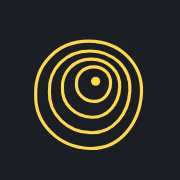
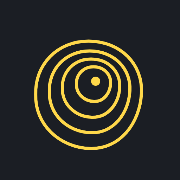
v5.22.6: @napi-rs/canvas 1.0 — og et ikon som forsvant stille (#311)
Dependabot #306: 0.1.100 → 1.0.7. Bumpen selv er triviell — pakka brukes bare av
scripts/gen-icons.mjs, som ikke er del av bygget. Det den avdekket er ikke.

@napi-rs/canvas 1.0 løser ikke `href` på <use>, bare den gamle
`xlink:href`-formen. public/icon.svg brukte <defs> + <use href="#blob"> for de
fire høydekurvene, så ALLE FIRE forsvant fra de genererte PWA-ikonene — igjen
sto bakgrunnen og midtprikken. Scriptet skrev fire glade «Wrote …»-linjer og
returnerte 0. PNG-er er binære i git-diffen, så ingenting så det; det ble bare
oppdaget fordi filene krympet fra 31 til 3 kB, og tallet var for merkelig å la
ligge.

To endringer:

- Path-en er GJENTATT fire ganger framfor <defs> + <use>. Mindre pent, men det
  avhenger ikke av at en renderer støtter <use> i det hele tatt. Begrunnelsen
  står i SVG-en, så den ikke blir «ryddet» tilbake ved første anledning.
  Nettlesere tok begge former, så feilen var usynlig i appen selv.
- gen-icons.mjs teller nå GULE PIKSLER og feiler under 3 % av flaten. Merket er
  fire strøk-tegnede ringer pluss en liten prikk: et riktig ikon ligger på ~8 %,
  en bare-prikken-variant på ~0,2 %. Verifisert i begge retninger — exit 1 når
  kurvene fjernes, exit 0 på riktig ikon.

Ikonene er regenerert og visuelt identiske med før. De er nå RGBA framfor RGB
(1.0 bevarer alfakanalen), men målt helt opake, som før.

Gater: test (2415), build, audit-gaten, npm ci-integritet, og gen-icons selv.

diff --git a/public/sw.js b/public/sw.js
@@ -16,7 +16,7 @@
  *       Everything else → network only (Google Fonts, opentype from CDN, etc.)
  */
 
-const CACHE_VERSION = 'lende-v5.22.5'
+const CACHE_VERSION = 'lende-v5.22.6'
 const SHELL_CACHE   = `${CACHE_VERSION}-shell`
 const ASSET_CACHE   = `${CACHE_VERSION}-assets`
 const BASE = '/lende/'

diff --git a/src/version.js b/src/version.js
@@ -1,4 +1,4 @@
 // Autoritativ app-versjon. Skal matche "version" i package.json +
 // package-lock.json og CACHE_VERSION i public/sw.js — alle fire bumpes
 // i samme commit.
-export const APP_VERSION = '5.22.5'
+export const APP_VERSION = '5.22.6'

diff --git a/CHANGELOG.md b/CHANGELOG.md
@@ -1,3 +1,21 @@
+## 2026-08-23 — v5.22.6: @napi-rs/canvas 1.0 — og et ikon som forsvant stille
+
+Major-bumpen (0.1.100 → 1.0.7) avdekket at 1.0 ikke løser `href` på `<use>`, bare
+den gamle `xlink:href`-formen. Ikonet vårt brukte `<defs>` + `<use href="#blob">`
+for de fire høydekurvene, så alle fire forsvant fra de genererte PWA-ikonene —
+igjen sto bakgrunnen og midtprikken. Scriptet skrev fire glade «Wrote …»-linjer
+og returnerte 0. PNG-er er binære i git-diffen, så ingenting så det; det ble bare
+oppdaget fordi filene krympet fra 31 til 3 kB og tallet var for merkelig å la
+ligge.
+
+Path-en er nå gjentatt fire ganger framfor `<use>`. Det er mindre pent, men det
+avhenger ikke av at en renderer støtter `<use>` i det hele tatt — og begrunnelsen
+står i SVG-en, så den ikke blir «ryddet» tilbake. `gen-icons.mjs` teller nå gule
+piksler og feiler under 3 % av flaten: et riktig ikon ligger på ~8 %, en
+bare-prikken-variant på ~0,2 %. Verifisert i begge retninger.
+
+---
+
 ## 2026-08-23 — v5.22.5: Siste to sårbarhetene i MCP-Workeren
 
 `fast-uri` 3.1.4 → 3.1.6 og `hono` 4.12.32 → 4.13.3, begge transitive via
